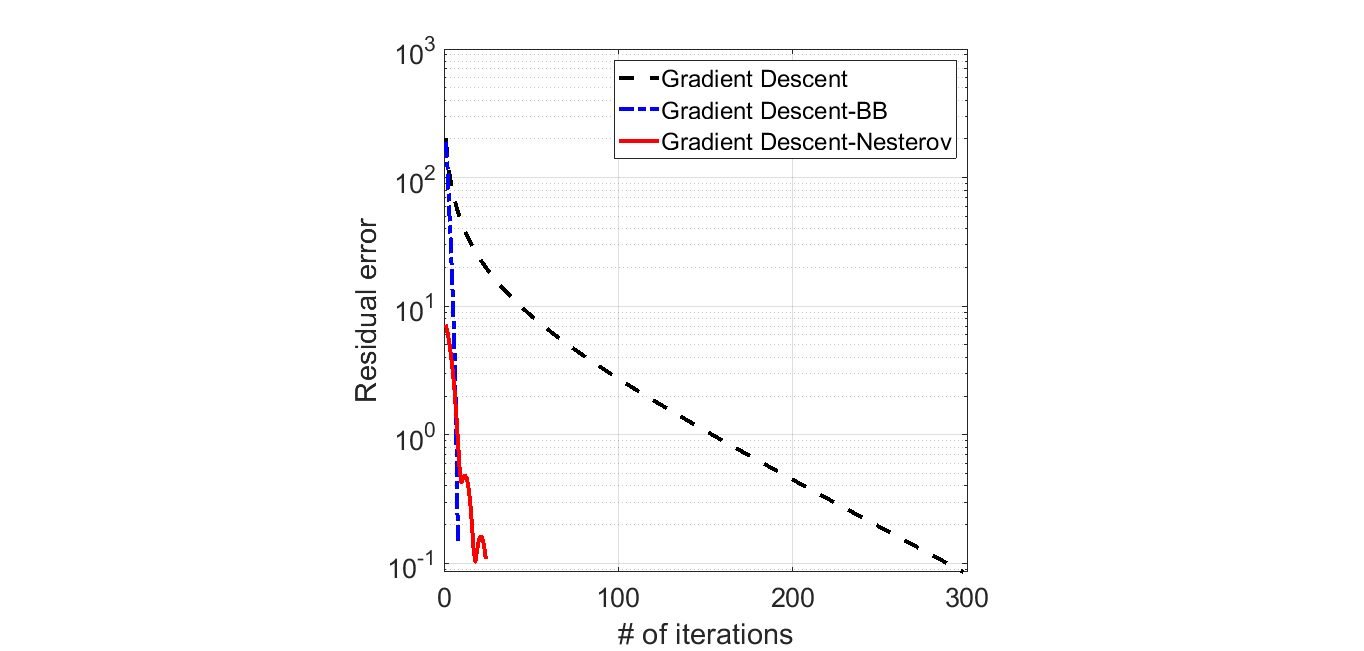
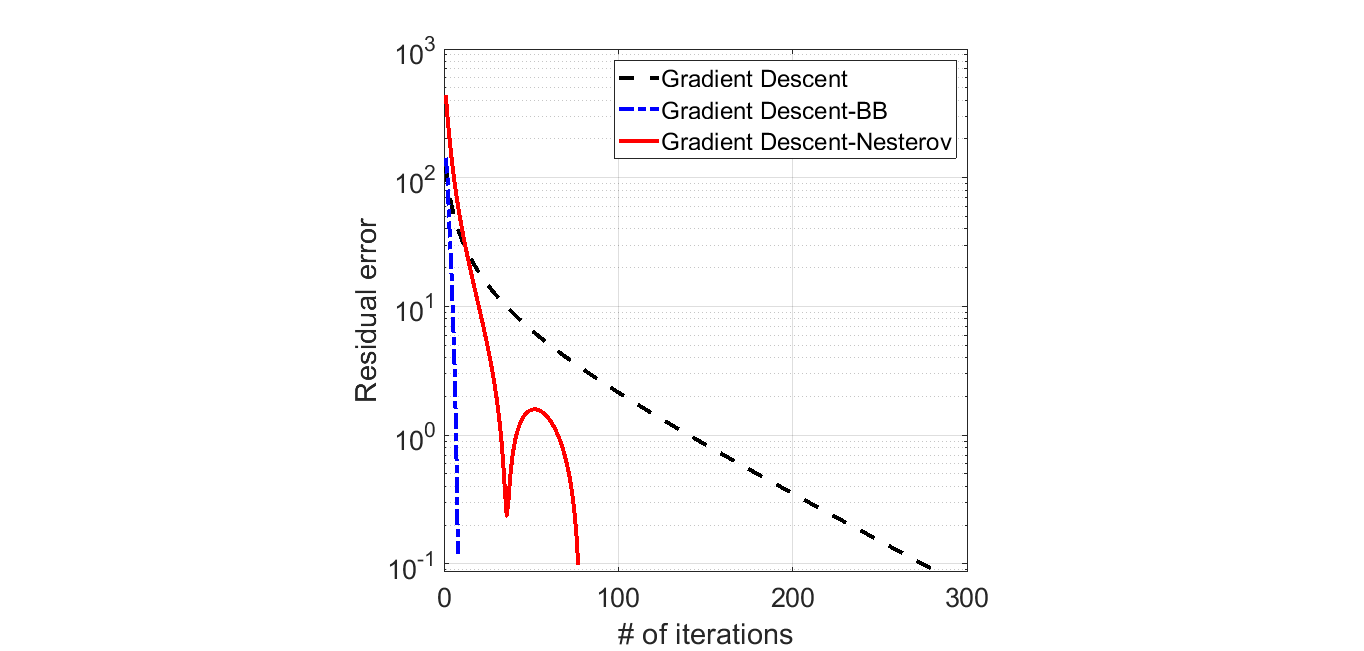
Add description

diff --git a/LipschitzEstimation.m b/LipschitzEstimation.m
@@ -12,11 +12,11 @@ function [L] = LipschitzEstimation(g, x)
     % L  = estimated Lipschitz constant
     % ---------------------------------------------------------------------
 
-    L = 1e10;
+    L = -1e10;
     for i = 1 : 100
         y = x + randn(size(x));
         Ltemp = norm(g(x) - g(y))/norm(x-y);
-        if (Ltemp < L)
+        if (Ltemp > L)
             L = Ltemp;
         end
     end
